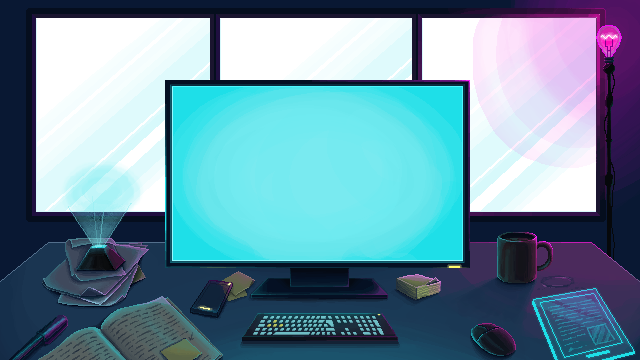
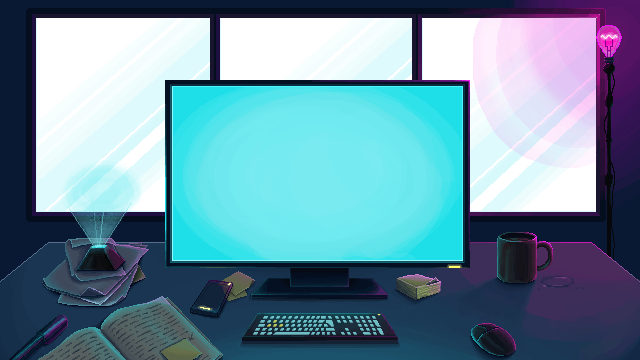
changes to insta

Changed region(s): [[0.8125, 0.7944, 1.0, 1.0]]

diff --git a/index.html b/index.html
@@ -1,15 +1,20 @@
 <html>
   <head>
     <title>Detective Pawsome!</title>
+    <meta charset="utf-8">
     <script src="web/pinkfluffyunicorn.min.js"></script>
     <script src="web/eventemitter.js"></script>
     <script src="web/keyboard.js"></script>
     <script src="web/words.js"></script>
     <style>
       body { margin: 0; }
+      #tablet_overlay {
+        
+      }
     </style>
   </head>
   <body>
+    <div id="tablet_overlay"></div>
     <div id="unicorn-display"></div>
     <script>
       const params = new URLSearchParams(location.search);
